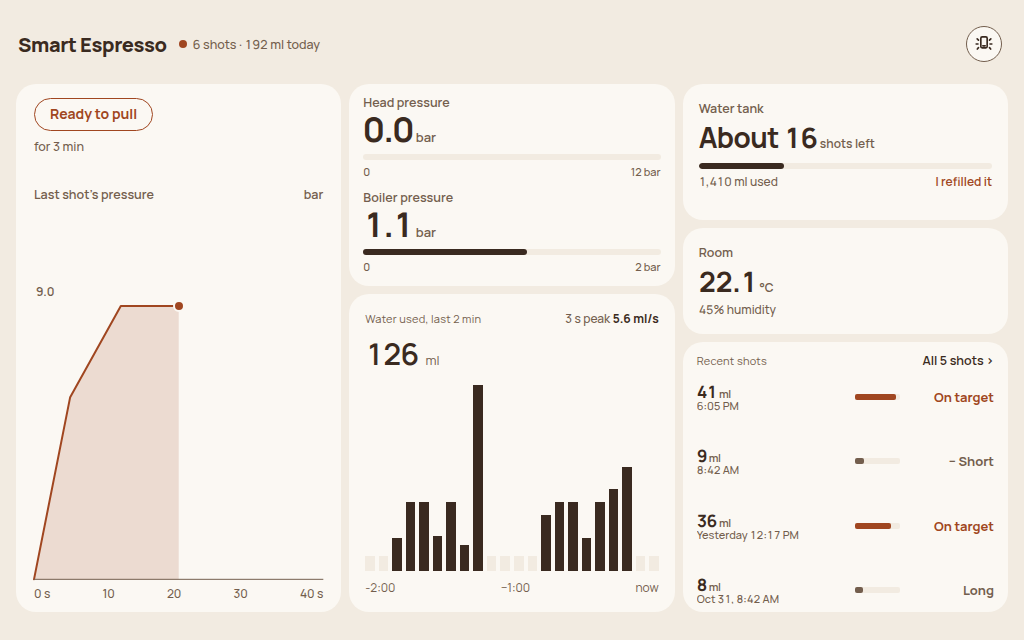
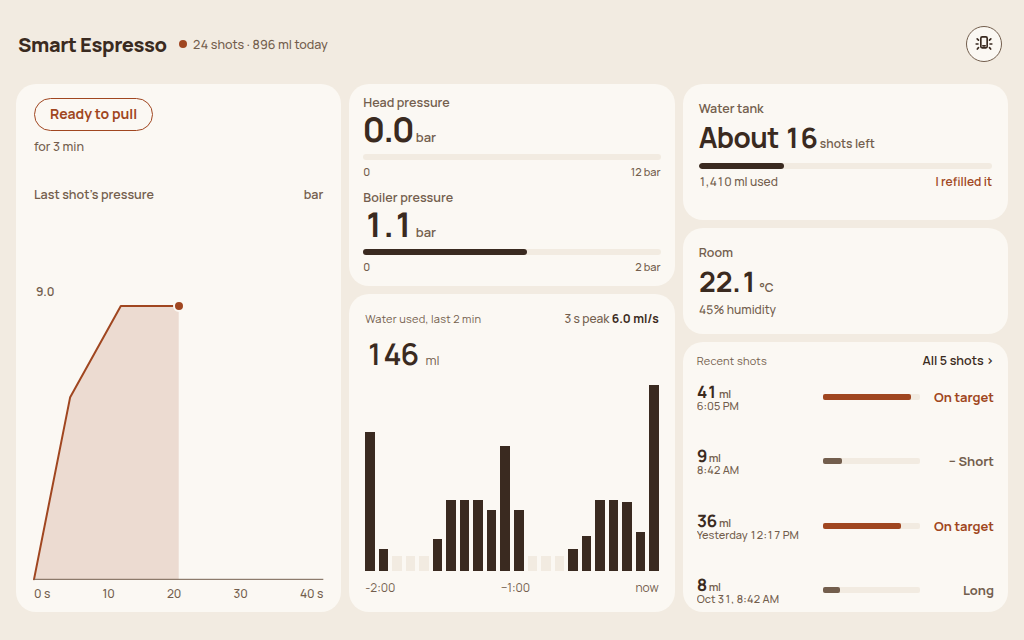
fix: widen recent bars below 1200px
Narrow the time column to 116px and the verdict column to 64px on
desktops under 1200px, and keep the time at 11px. Wider desktops
keep the previous columns.

diff --git a/smart_espresso/web/static/index.html b/smart_espresso/web/static/index.html
@@ -1242,7 +1242,8 @@
   .recent-tile .t-line { display: none; white-space: nowrap; }
   @media (min-width: 1000px) {
     /* Fixed figure column sized for "Yesterday 12:17 PM", then the bar,
-       then a fixed verdict. Every bar starts and ends on the same x. */
+       then a fixed verdict. Every bar starts and ends on the same x.
+       1200 and wider keep this column. Narrower desktops shrink it below. */
     .recent-tile {
       display: grid;
       grid-template-columns: 148px minmax(0, 1fr) 84px;
@@ -1269,6 +1270,16 @@
       white-space: nowrap;
       font-size: 13px;
     }
+  }
+  /* Below 1200 the fixed columns were leaving a stub of a bar. Narrow
+     them so the bar keeps the width those columns give back. The time
+     stays 11px, and "Yesterday 12:17 PM" still fits the 116px column. */
+  @media (min-width: 1000px) and (max-width: 1199px) {
+    .recent-tile {
+      grid-template-columns: 116px minmax(0, 1fr) 64px;
+    }
+    .recent-tile .t-line { font-size: 11px; }
+    .recent-tile .v { width: 64px; }
   }
   /* A short window plus the offline banner leaves a short Recent card.
      Tighter rows keep four shots inside it; fitRecentRows hides the

diff --git a/smart_espresso/web/static/sw.js b/smart_espresso/web/static/sw.js
@@ -2,7 +2,7 @@
 // still opens (slightly stale, clearly marked so by the page itself) when
 // the machine's server hiccups. Sensor data is never cached: /api/* always
 // goes to the network.
-const CACHE = 'espresso-shell-v89';
+const CACHE = 'espresso-shell-v90';
 const SHELL = [
   '/',
   '/dashboard_logic.js',

diff --git a/smart_espresso/test/test_dashboard_logic.py b/smart_espresso/test/test_dashboard_logic.py
@@ -1180,6 +1180,12 @@ class TestDesktopGrid:
         assert "#pulls-card {" in block
         assert "flex: 1 1 auto" in block
         assert "grid-template-columns: 148px minmax(0, 1fr) 84px" in self.page
+        narrow = self.page.find("@media (min-width: 1000px) and (max-width: 1199px)")
+        assert narrow > 0
+        narrow_block = self.page[narrow : narrow + 700]
+        assert "grid-template-columns: 116px minmax(0, 1fr) 64px" in narrow_block
+        assert "font-size: 11px" in narrow_block
+        assert "width: 64px" in narrow_block
         assert 'grid-template-areas: "ml bar verdict" "when bar verdict"' in self.page
         assert ".recent-tile .t-line" in self.page
         assert "shotWhenLine" in self.page

diff --git a/smart_espresso/test/test_dashboard_contrast.py b/smart_espresso/test/test_dashboard_contrast.py
@@ -158,7 +158,7 @@ class TestDashboardContrast:
         assert "fonts.googleapis.com" not in self.worker
         assert "fonts.gstatic.com" not in self.worker
         assert "/fonts/manrope.woff2" in self.worker
-        assert "espresso-shell-v89" in self.worker
+        assert "espresso-shell-v90" in self.worker
         font = PAGE.parent / "fonts" / "manrope.woff2"
         assert font.is_file()
         assert font.read_bytes()[:4] == b"wOF2"
